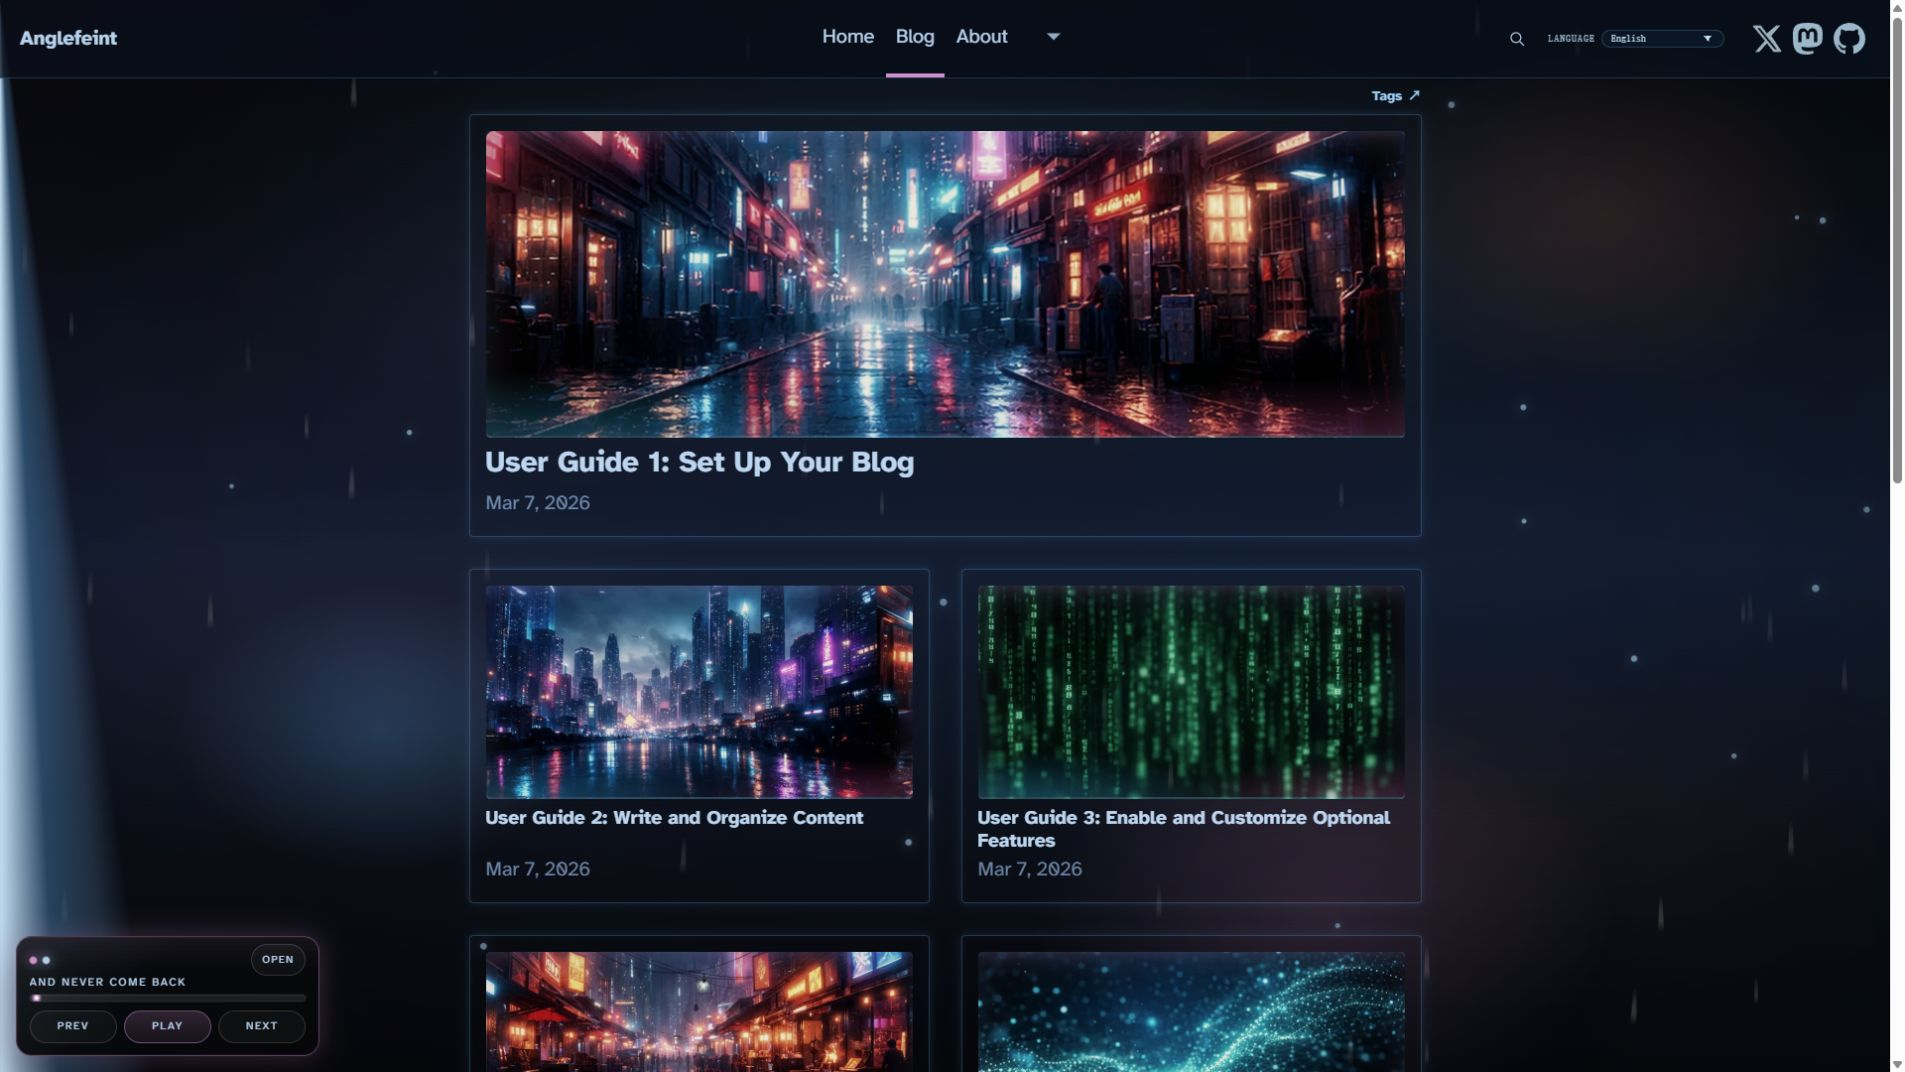
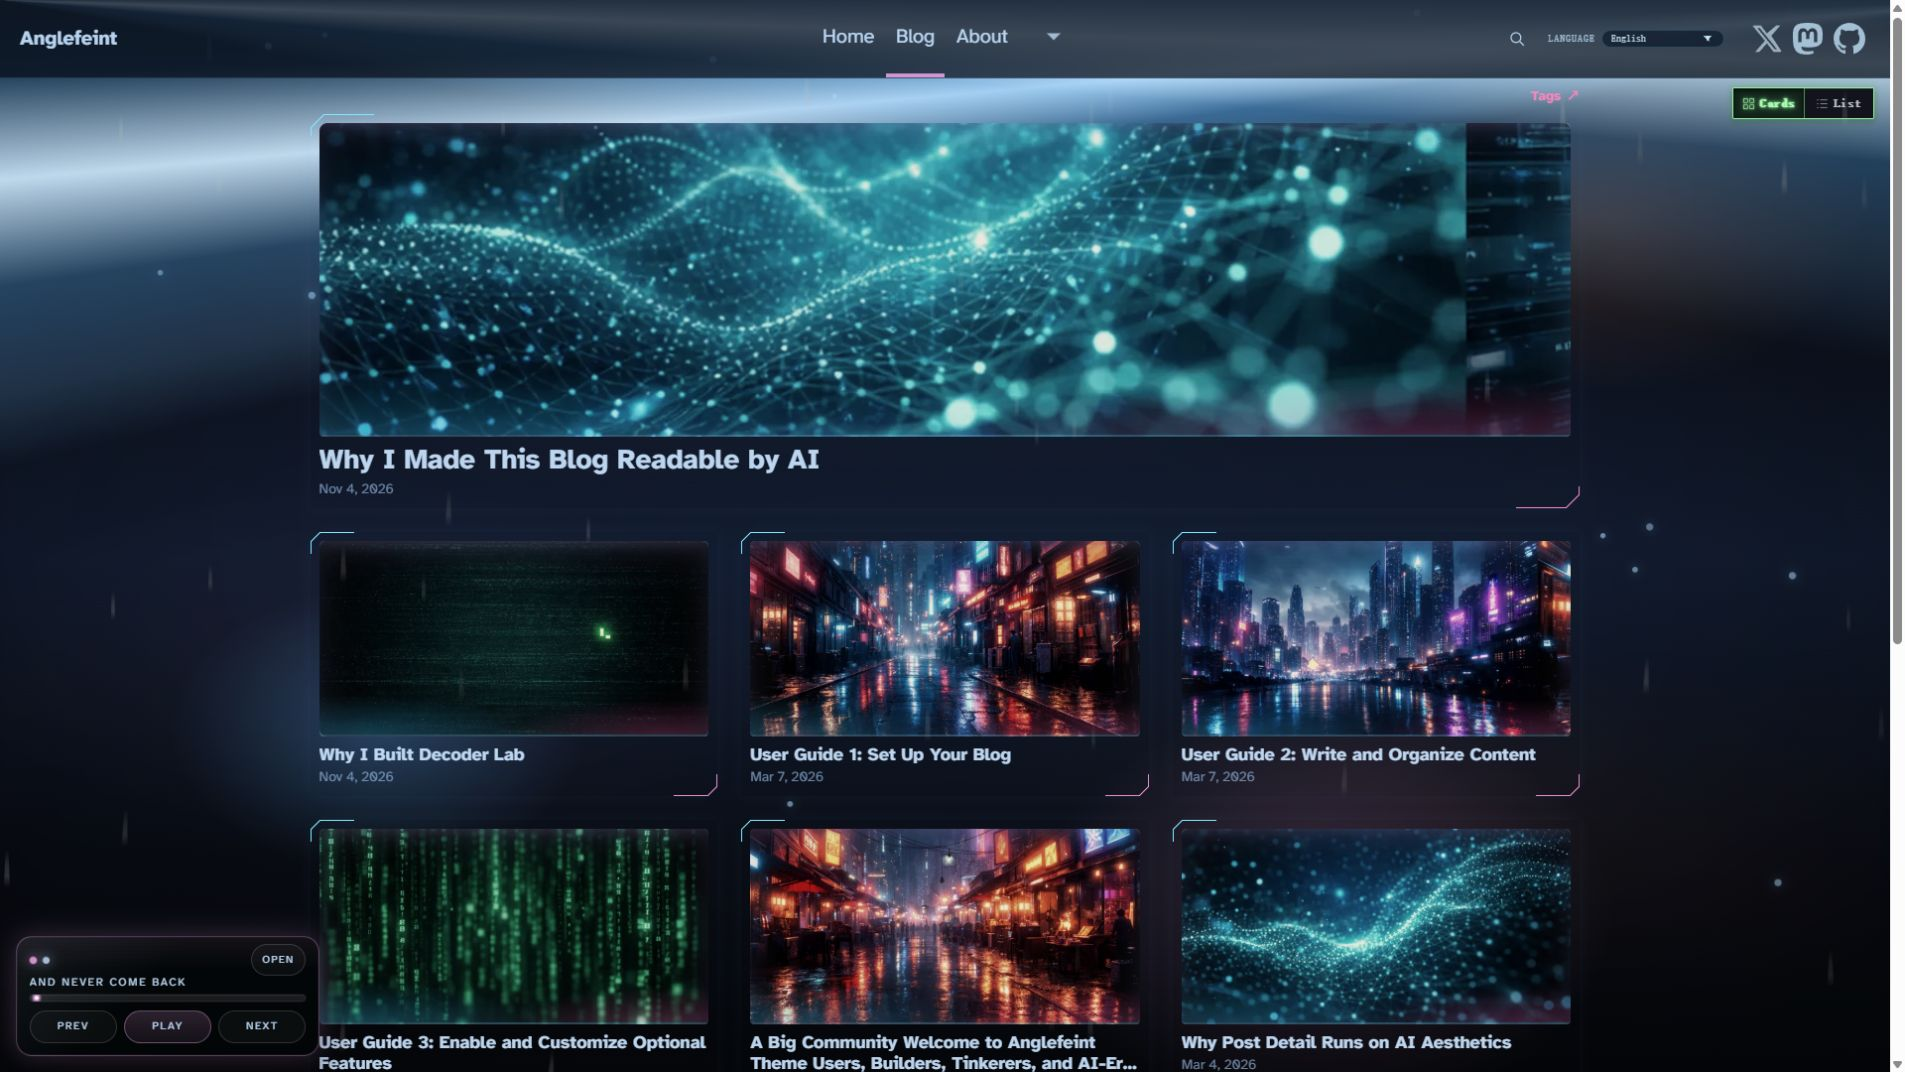
docs: refresh README previews and add archive and resource views

diff --git a/public/images/theme-previews/README.md b/public/images/theme-previews/README.md
@@ -1,17 +1,19 @@
 # Theme Preview Images
 
-Seven screenshots refreshed from the public English demo on 2026-11-04 using an isolated browser, with no account/profile UI or browser chrome. The cinematic brand artwork remains unchanged. These JPGs share the same paths in all nine localized READMEs.
+The gallery contains nine screenshots from the public English demo, with no account/profile UI or browser chrome. On 2026-11-05, Home, Cards, pagination, article and About screenshots were refreshed, and List and Decoder resources were added using the built-in browser. Related posts and the Decoder workbench retain their 2026-11-04 captures. The cinematic brand artwork remains unchanged. All nine localized READMEs share these JPG assets.
 
-| File                               | Actual view                                                                |
-| ---------------------------------- | -------------------------------------------------------------------------- |
-| `preview-home.jpg`                 | Matrix homepage, settled intro and minimized player                        |
-| `preview-blog-list.jpg`            | Compact leading card, following cards and Tags shortcut                    |
-| `preview-blog-list-pagination.jpg` | Final archive cards, pagination and footer                                 |
-| `preview-blog-post.jpg`            | Guide 1 title/metadata, compact cover, OUTPUT, tags and prose              |
-| `preview-blog-post-related.jpg`    | Community welcome article's Related section aligned with the reading panel |
-| `preview-about.jpg`                | About sections, independent contents rail, tools and highlighted Contact   |
-| `preview-decoder.jpg`              | Successful local Base64 decoding with non-personal demonstration text      |
+| File                               | Actual view                                                                     |
+| ---------------------------------- | ------------------------------------------------------------------------------- |
+| `preview-home.jpg`                 | Matrix homepage, settled intro and minimized player                             |
+| `preview-blog-list.jpg`            | Full-width leading cover, three-column Cards, clipped corners and view control  |
+| `preview-blog-list-mode.jpg`       | List view with range/total, continuous numbering, linked tags and numeric dates |
+| `preview-blog-list-pagination.jpg` | Final archive cards, pagination and footer                                      |
+| `preview-blog-post.jpg`            | Guide 1 author byline, dates, cover, OUTPUT, tags, prose and contents rail      |
+| `preview-blog-post-related.jpg`    | Community welcome article's Related section aligned with the reading panel      |
+| `preview-about.jpg`                | About sections, diagonal contents frame, tools and highlighted Contact          |
+| `preview-decoder.jpg`              | Successful local Base64 decoding with non-personal demonstration text           |
+| `preview-decoder-resources.jpg`    | Cypherpunk tribute and all sixteen resource cards with clipped corners          |
 
-Source: https://demo.anglefeint.com/en/ and its linked English pages. Captured with a 1920×1080 desktop viewport; the browser exports scrollable pages at 1905×1072 and the homepage at 1920×1080. Do not upscale them. Images use the browser's native JPEG output (about 94–201 KiB each) and contain no EXIF/XMP/IPTC metadata. Old PNG versions are retired through the starter manifest. `preview-about-modal.png` is an older optional asset, not part of the current README gallery.
+Source: https://demo.anglefeint.com/en/ and its linked English pages. Captured with a 1920×1080 desktop viewport to show the independent contents rails and homepage terminal; the browser exports scrollable pages at 1905×1072 and the homepage at 1920×1080. The Decoder resources image is a 1905×640 crop of a full-page capture, beginning at the tribute and retaining all sixteen cards. Do not upscale images or alter the page for capture. Other images use the browser's native JPEG output; the resource crop is JPEG quality 90. Old PNG versions are retired through the starter manifest. `preview-about-modal.png` is an older optional asset, not part of the current README gallery.
 
 Capture real UI states; do not edit page content/styles just for screenshots. Wait for fonts, headings and decoding to settle. Keep decorative motion enabled, use only public demo content, and inspect each resulting image before delivery.

diff --git a/README.ko.md b/README.ko.md
@@ -257,9 +257,13 @@ canonical, 피드, 사이트맵에 올바른 도메인이 쓰이도록 `site.url
 
 ## 미리보기
 
-| 홈                                                             | 블로그 목록                                                              |
-| -------------------------------------------------------------- | ------------------------------------------------------------------------ |
-| ![Home preview](public/images/theme-previews/preview-home.jpg) | ![Blog list preview](public/images/theme-previews/preview-blog-list.jpg) |
+| 홈                                                             | 블로그 목록                                                               |
+| -------------------------------------------------------------- | ------------------------------------------------------------------------- |
+| ![Home preview](public/images/theme-previews/preview-home.jpg) | ![Blog Cards preview](public/images/theme-previews/preview-blog-list.jpg) |
+
+| Blog · 목록 보기                                                           |
+| -------------------------------------------------------------------------- |
+| ![Blog List view](public/images/theme-previews/preview-blog-list-mode.jpg) |
 
 | 글 상세                                                                  |
 | ------------------------------------------------------------------------ |
@@ -276,6 +280,10 @@ canonical, 피드, 사이트맵에 올바른 도메인이 쓰이도록 `site.url
 | Decoder Lab                                                      |
 | ---------------------------------------------------------------- |
 | ![Decoder Lab](public/images/theme-previews/preview-decoder.jpg) |
+
+| Decoder Lab · 사이퍼펑크 자료                                                        |
+| ------------------------------------------------------------------------------------ |
+| ![Decoder Lab resources](public/images/theme-previews/preview-decoder-resources.jpg) |
 
 ## 라우트별 분위기
 

diff --git a/README.es.md b/README.es.md
@@ -257,9 +257,13 @@ Se activan nueve idiomas: `en`, `ja`, `ko`, `es`, `zh`, `pt-br`, `de`, `ru`, `zh
 
 ## Vista previa
 
-| Inicio                                                         | Lista del blog                                                           |
-| -------------------------------------------------------------- | ------------------------------------------------------------------------ |
-| ![Home preview](public/images/theme-previews/preview-home.jpg) | ![Blog list preview](public/images/theme-previews/preview-blog-list.jpg) |
+| Inicio                                                         | Lista del blog                                                            |
+| -------------------------------------------------------------- | ------------------------------------------------------------------------- |
+| ![Home preview](public/images/theme-previews/preview-home.jpg) | ![Blog Cards preview](public/images/theme-previews/preview-blog-list.jpg) |
+
+| Blog · Vista de lista                                                      |
+| -------------------------------------------------------------------------- |
+| ![Blog List view](public/images/theme-previews/preview-blog-list-mode.jpg) |
 
 | Post                                                                     |
 | ------------------------------------------------------------------------ |
@@ -276,6 +280,10 @@ Se activan nueve idiomas: `en`, `ja`, `ko`, `es`, `zh`, `pt-br`, `de`, `ru`, `zh
 | Decoder Lab                                                      |
 | ---------------------------------------------------------------- |
 | ![Decoder Lab](public/images/theme-previews/preview-decoder.jpg) |
+
+| Decoder Lab · Recursos cypherpunk                                                    |
+| ------------------------------------------------------------------------------------ |
+| ![Decoder Lab resources](public/images/theme-previews/preview-decoder-resources.jpg) |
 
 ## Ambiente por ruta
 

diff --git a/README.md b/README.md
@@ -257,9 +257,13 @@ Nine languages are enabled by default: `en`, `ja`, `ko`, `es`, `zh`, `pt-br`, `d
 
 ## Preview
 
-| Home                                                           | Blog List                                                                |
-| -------------------------------------------------------------- | ------------------------------------------------------------------------ |
-| ![Home preview](public/images/theme-previews/preview-home.jpg) | ![Blog list preview](public/images/theme-previews/preview-blog-list.jpg) |
+| Home                                                           | Blog Cards                                                                |
+| -------------------------------------------------------------- | ------------------------------------------------------------------------- |
+| ![Home preview](public/images/theme-previews/preview-home.jpg) | ![Blog Cards preview](public/images/theme-previews/preview-blog-list.jpg) |
+
+| Blog · List                                                                |
+| -------------------------------------------------------------------------- |
+| ![Blog List view](public/images/theme-previews/preview-blog-list-mode.jpg) |
 
 | Blog Post                                                                |
 | ------------------------------------------------------------------------ |
@@ -276,6 +280,10 @@ Nine languages are enabled by default: `en`, `ja`, `ko`, `es`, `zh`, `pt-br`, `d
 | Decoder Lab                                                      |
 | ---------------------------------------------------------------- |
 | ![Decoder Lab](public/images/theme-previews/preview-decoder.jpg) |
+
+| Decoder Lab · Cypherpunk resources                                                   |
+| ------------------------------------------------------------------------------------ |
+| ![Decoder Lab resources](public/images/theme-previews/preview-decoder-resources.jpg) |
 
 ## Route Atmospheres
 

diff --git a/README.zh-CN.md b/README.zh-CN.md
@@ -257,9 +257,13 @@ export const THEME_CONFIG = defineThemeConfig({
 
 ## 预览
 
-| 首页                                                           | 博客列表                                                                 |
-| -------------------------------------------------------------- | ------------------------------------------------------------------------ |
-| ![Home preview](public/images/theme-previews/preview-home.jpg) | ![Blog list preview](public/images/theme-previews/preview-blog-list.jpg) |
+| 首页                                                           | 博客列表                                                                  |
+| -------------------------------------------------------------- | ------------------------------------------------------------------------- |
+| ![Home preview](public/images/theme-previews/preview-home.jpg) | ![Blog Cards preview](public/images/theme-previews/preview-blog-list.jpg) |
+
+| Blog · 列表模式                                                            |
+| -------------------------------------------------------------------------- |
+| ![Blog List view](public/images/theme-previews/preview-blog-list-mode.jpg) |
 
 | 文章页                                                                   |
 | ------------------------------------------------------------------------ |
@@ -276,6 +280,10 @@ export const THEME_CONFIG = defineThemeConfig({
 | Decoder Lab                                                      |
 | ---------------------------------------------------------------- |
 | ![Decoder Lab](public/images/theme-previews/preview-decoder.jpg) |
+
+| Decoder Lab · 密码朋克资源                                                           |
+| ------------------------------------------------------------------------------------ |
+| ![Decoder Lab resources](public/images/theme-previews/preview-decoder-resources.jpg) |
 
 ## 路由视觉氛围
 

diff --git a/README.ru.md b/README.ru.md
@@ -371,6 +371,10 @@ footer.showCredits: false скрывает ссылки на тему и Astro, 
 
 ![Blog](public/images/theme-previews/preview-blog-list.jpg)
 
+| Blog · Список                                                              |
+| -------------------------------------------------------------------------- |
+| ![Blog List view](public/images/theme-previews/preview-blog-list-mode.jpg) |
+
 ![Article](public/images/theme-previews/preview-blog-post.jpg)
 
 ![About](public/images/theme-previews/preview-about.jpg)
@@ -380,6 +384,10 @@ footer.showCredits: false скрывает ссылки на тему и Astro, 
 ![Похожие статьи](public/images/theme-previews/preview-blog-post-related.jpg)
 
 ![Decoder Lab](public/images/theme-previews/preview-decoder.jpg)
+
+| Decoder Lab · Ресурсы шифропанков                                                    |
+| ------------------------------------------------------------------------------------ |
+| ![Decoder Lab resources](public/images/theme-previews/preview-decoder-resources.jpg) |
 
 ## Лицензия
 

diff --git a/README.zh-Hant.md b/README.zh-Hant.md
@@ -371,6 +371,10 @@ footer.showCredits: false 隱藏主題與 Astro 連結，保留建置年份及 s
 
 ![Blog](public/images/theme-previews/preview-blog-list.jpg)
 
+| Blog · 清單模式                                                            |
+| -------------------------------------------------------------------------- |
+| ![Blog List view](public/images/theme-previews/preview-blog-list-mode.jpg) |
+
 ![Article](public/images/theme-previews/preview-blog-post.jpg)
 
 ![About](public/images/theme-previews/preview-about.jpg)
@@ -380,6 +384,10 @@ footer.showCredits: false 隱藏主題與 Astro 連結，保留建置年份及 s
 ![文章相關推薦](public/images/theme-previews/preview-blog-post-related.jpg)
 
 ![Decoder Lab](public/images/theme-previews/preview-decoder.jpg)
+
+| Decoder Lab · 密碼龐克資源                                                           |
+| ------------------------------------------------------------------------------------ |
+| ![Decoder Lab resources](public/images/theme-previews/preview-decoder-resources.jpg) |
 
 ## 授權
 

diff --git a/README.pt-BR.md b/README.pt-BR.md
@@ -371,6 +371,10 @@ Mescle todas as opções no mesmo theme ou i18n. Listas substituem listas anteri
 
 ![Blog](public/images/theme-previews/preview-blog-list.jpg)
 
+| Blog · Visualização em lista                                               |
+| -------------------------------------------------------------------------- |
+| ![Blog List view](public/images/theme-previews/preview-blog-list-mode.jpg) |
+
 ![Article](public/images/theme-previews/preview-blog-post.jpg)
 
 ![About](public/images/theme-previews/preview-about.jpg)
@@ -380,6 +384,10 @@ Mescle todas as opções no mesmo theme ou i18n. Listas substituem listas anteri
 ![Artigos relacionados](public/images/theme-previews/preview-blog-post-related.jpg)
 
 ![Decoder Lab](public/images/theme-previews/preview-decoder.jpg)
+
+| Decoder Lab · Recursos cypherpunk                                                    |
+| ------------------------------------------------------------------------------------ |
+| ![Decoder Lab resources](public/images/theme-previews/preview-decoder-resources.jpg) |
 
 ## Licença
 

diff --git a/README.de.md b/README.de.md
@@ -371,6 +371,10 @@ Alle Optionen im selben theme beziehungsweise i18n zusammenführen. Listen erset
 
 ![Blog](public/images/theme-previews/preview-blog-list.jpg)
 
+| Blog · Listenansicht                                                       |
+| -------------------------------------------------------------------------- |
+| ![Blog List view](public/images/theme-previews/preview-blog-list-mode.jpg) |
+
 ![Article](public/images/theme-previews/preview-blog-post.jpg)
 
 ![About](public/images/theme-previews/preview-about.jpg)
@@ -380,6 +384,10 @@ Alle Optionen im selben theme beziehungsweise i18n zusammenführen. Listen erset
 ![Ähnliche Artikel](public/images/theme-previews/preview-blog-post-related.jpg)
 
 ![Decoder Lab](public/images/theme-previews/preview-decoder.jpg)
+
+| Decoder Lab · Cypherpunk-Ressourcen                                                  |
+| ------------------------------------------------------------------------------------ |
+| ![Decoder Lab resources](public/images/theme-previews/preview-decoder-resources.jpg) |
 
 ## Lizenz
 
